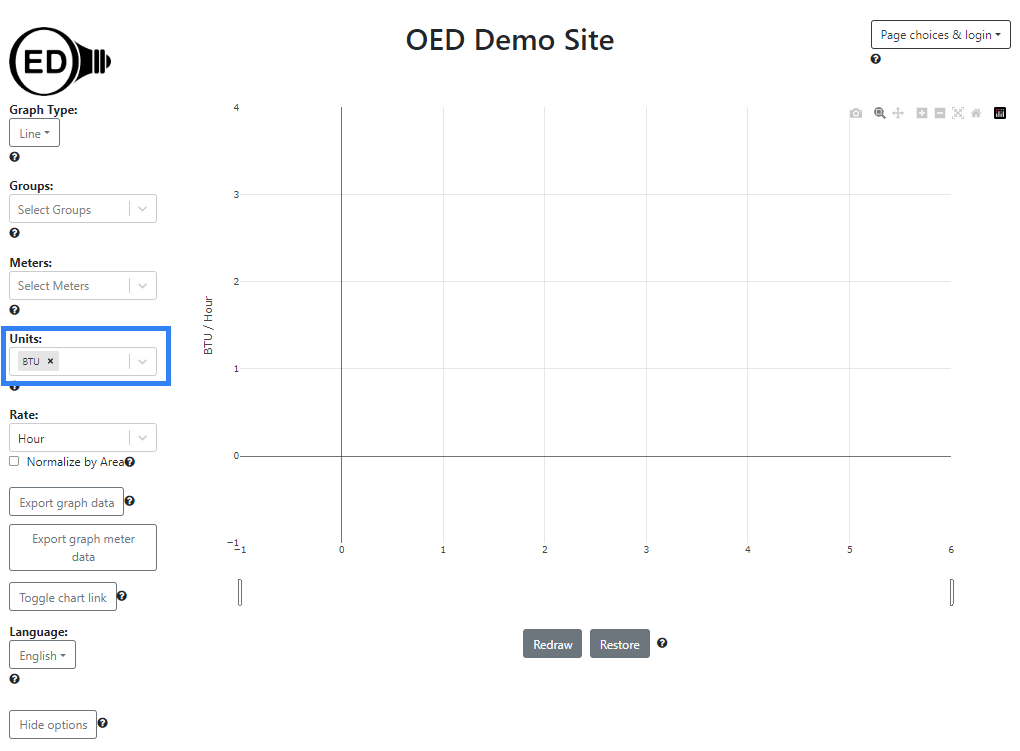
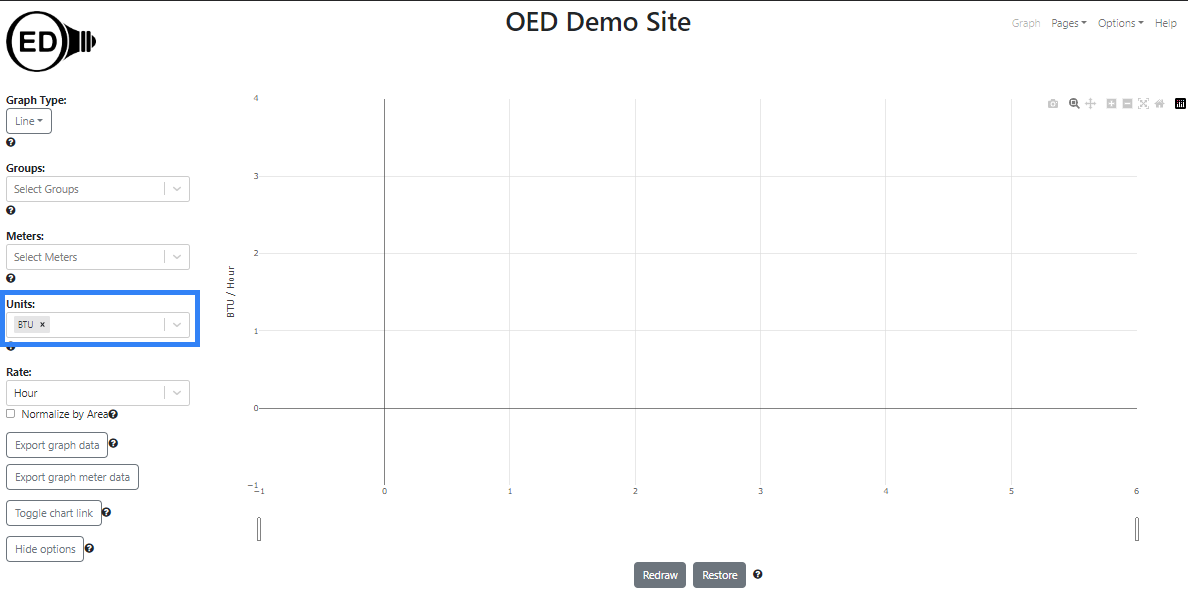
update graphingUnits
New image way & latest OED look. Add link to index.

diff --git a/help/v1.0.0/graphingUnits.html b/help/v1.0.0/graphingUnits.html
@@ -16,18 +16,18 @@ title: OED unit help
 
 	<h2 id="usage">Usage</h2>
 	<p>The unit menu on each graphic page is shown in the following figure (highlighted in blue box):</p>
-	<img alt="Graphic unit menu" src="./images/graphicUnitMenuInitial.png">
+	<p><img alt="Graphic unit menu" src="./images/graphicUnitMenuInitial.png"></p>
 	<p>As shown, when you first load OED there is no graphic unit so it has "Select Unit". If the user selects a meter
 		or group, then the default graphic unit associated with that meter or group will become the current unit. In the
 		following figure, "Dining Hall Electric" was selected so OED automatically sets the units to "kWh". (Both shown
 		in blue rectangle.) The y-axis
 		graphing unit on this line graphic is the related unit of kW. See TODO for information on the unit used in the
 		graphic.</p>
-	<img alt="Graphic after selecting the Dining Hall Electric meter" src="./images/graphicUnitMenuAfterMeter.png">
+	<p><img alt="Graphic after selecting the Dining Hall Electric meter" src="./images/graphicUnitMenuAfterMeter.png"></p>
 	<p>Clicking on the down arrow to reveal the "Units:"" options will show all units and their status for the selected
 		meter(s)/group(s) as show in this figure for the allowed units (they all just happen to fit in the dropdown
 		display size):</p>
-	<img alt="Graphic unit menu showing allowed choices" src="./images/graphicUnitMenuAllowedChoices.png">
+	<p><img alt="Graphic unit menu showing allowed choices" src="./images/graphicUnitMenuAllowedChoices.png" style="min-width: 195px;"></p>
 	<p>For the selected meter of "Dining Hall Electric", there are seven allowed units starting with "BTU" and ending
 		with
 		"US $" plus the already selected one of "kWh". Note the order of units is alphabetical withing each category.
@@ -37,12 +37,12 @@ title: OED unit help
 		meters/groups even though they are available at this site. There is a separated labeled "-----Incompatible
 		Units-----" and these units are shown grayed out so they cannot be selected. With the selected meter, their are
 		nine incompatible units starting with Celsius and going to ton. In the following figure you can only see the
-		first six through lb. The remaining ones could be seen by scrolling the dropdown choices.</p>
-	<img alt="Graphic unit menu showing incompatible choices" src="./images/graphicUnitMenuIncomptibleChoices.png">
+		first five through "kW". The remaining ones could be seen by scrolling the dropdown choices.</p>
+	<p><img alt="Graphic unit menu showing incompatible choices" src="./images/graphicUnitMenuIncomptibleChoices.png" style="min-width: 197px;"></p>
 	<p>Any allowed unit can be selected to update the displayed graphic unit. As shown in the following figure, "US $"
 		was selected and the y-axis label became "US $/hour". See TODO for information on the time unit
 		used and how to change it.</p>
-	<img alt="Graphic after selecting US $ unit" src="./images/graphicAfterUSDollar.png">
+	<p><img alt="Graphic after selecting US $ unit" src="./images/graphicAfterUSDollar.png"></p>
 	<p>Selecting additional meters/groups will not change the graphic unit on the "Units" menu but it can alter the
 		allowed/incompatible units that are displayed. This is due to the fact that the allowed units are those that are
 		allowed for all meters and groups selected. See TODO for more information.</p>
@@ -51,11 +51,11 @@ title: OED unit help
 		done when you hover over the "x". It will also clear the unit and reset it back
 		to "Select Unit". Overall, this will put it back to the initial page when OED was loaded as shown at the top of
 		this page.</p>
-	<img alt="Clearing graphic unit" src="./images/graphicUnitClearing.png">
+	<p><img alt="Clearing graphic unit" src="./images/graphicUnitClearing.png" style="min-width: 197px;"></p>
 	<p>While less common, one can select a unit before any meter/group when it has "Select Unit". When this is done, the
 		y-axis label is updated but nothing is graphed. In the following figure, the "Units" was set to "BTU" (shown in
 		blue rectangle) and the y-axis label became "BTU/Hour":</p>
-	<img alt="Selecting graphic unit before meter/group" src="./images/graphicUnitInitialSet.png">
+	<p><img alt="Selecting graphic unit before meter/group" src="./images/graphicUnitInitialSet.png"></p>
 
 	<h2 id="details">Details</h2>
 	<p>An easy way to see all available graphing units is to use the "Units" dropdown menu when no meter/group is

diff --git a/help/v1.0.0/index.html b/help/v1.0.0/index.html
@@ -26,6 +26,8 @@ title: OED help
 		<li><a href="./exampleDescription.html">Description of website example</a>: describes the example data used in
 			the website including the help pages.</li>
 		<li><a href="graphType.html">Graph Type</a>: describes the types of graphics and how to select them.</li>
+		<li><a href="./graphingUnits.html">Graph Units</a>: describes the ideas of units and how to select them when
+			graphing.</li>
 		<li><a href="graphingMeters.html">Graphing Meters</a>: describes the ideas of meters and how to get them
 			graphed.</li>
 		<li><a href="graphingGroups.html">Graphing Groups</a>: describes the ideas of groups and how to get them
